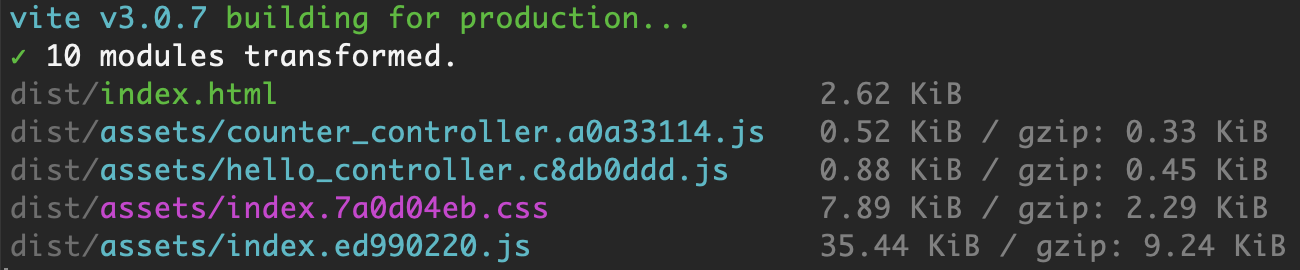
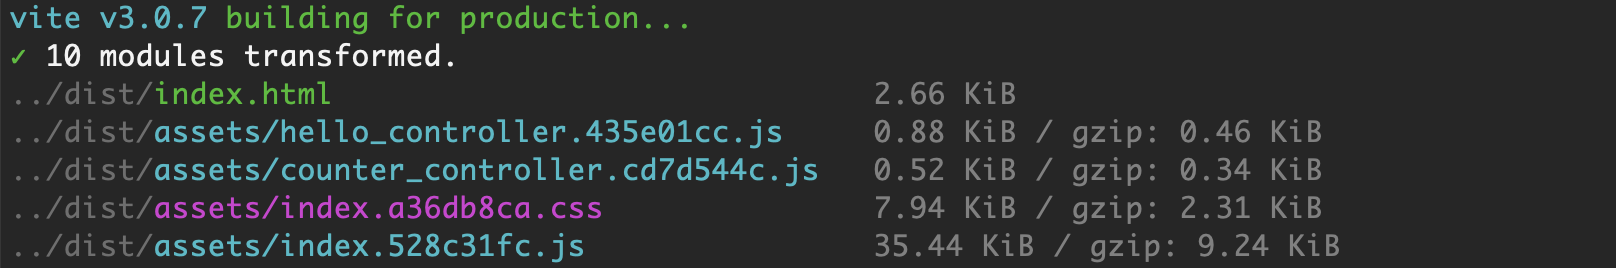
Change build directory

diff --git a/vite.config.js b/vite.config.js
@@ -13,4 +13,8 @@ export default defineConfig({
   },
   root: 'src',
   publicDir: '../public',
+  build: {
+    outDir: '../dist',
+    emptyOutDir: true,
+  },
 })
